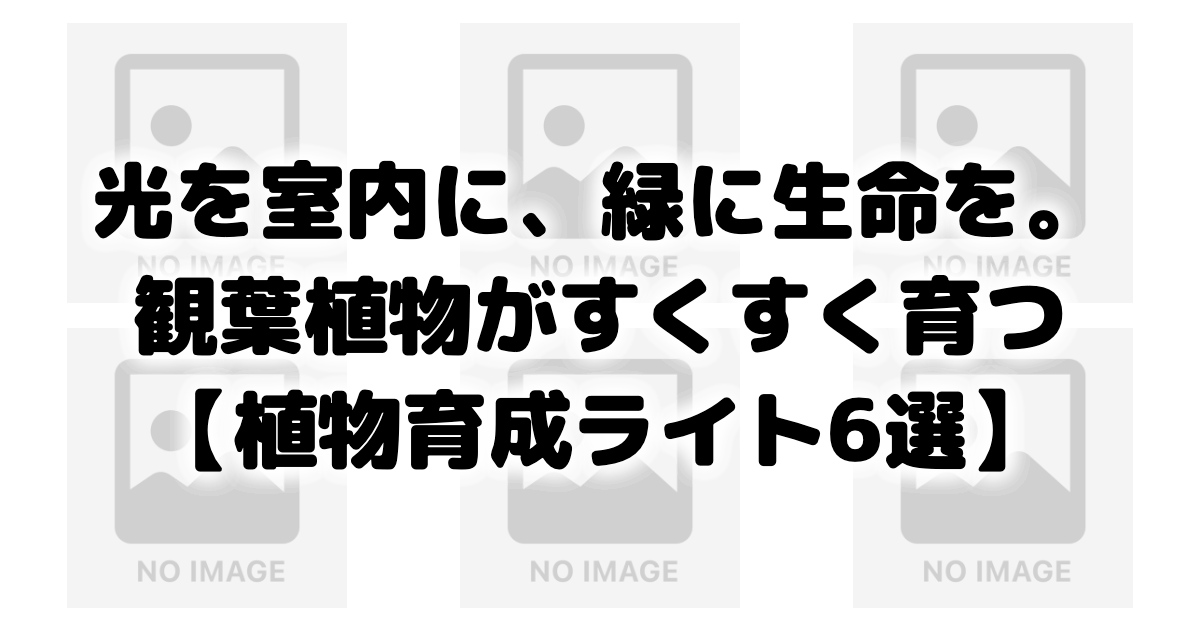
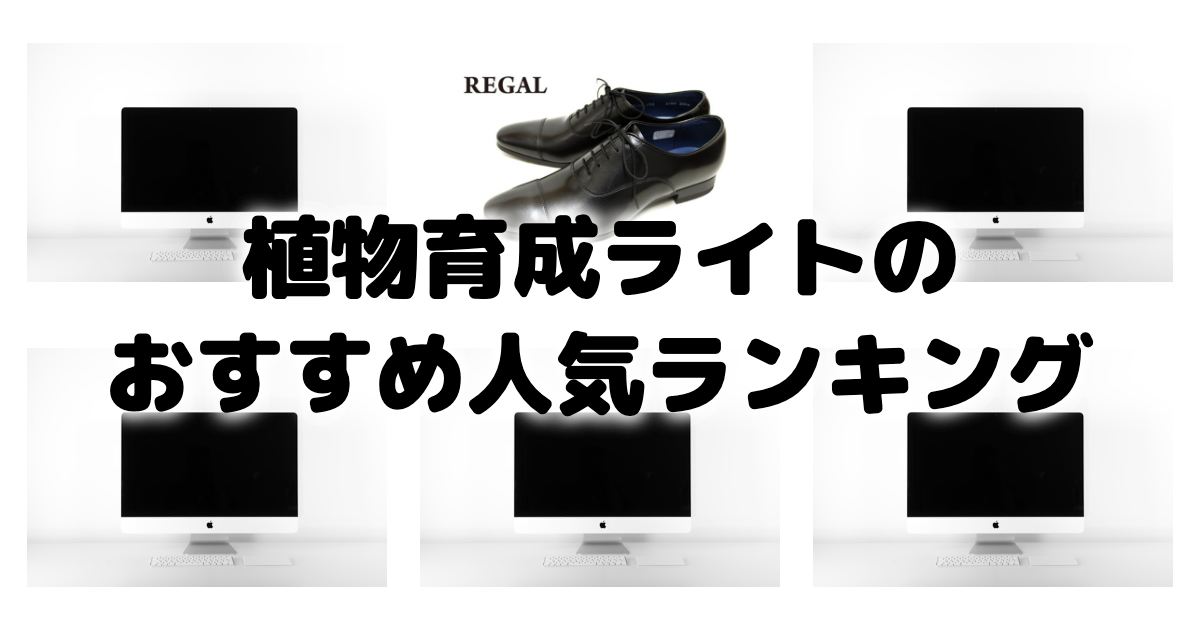
feat: Regenerate plant lights article with accurate Puppeteer JSON-LD resolve and genuine API affiliate URLs

diff --git a/public/eyecatch/20260530-植物育成ライトのおすすめ人気ランキング.html b/public/eyecatch/20260530-植物育成ライトのおすすめ人気ランキング.html
@@ -7,15 +7,14 @@ body { font-family: 'M PLUS Rounded 1c', sans-serif; display: flex; align-items:
 .pw { width: 100%; height: 100%; display: flex; align-items: center; justify-content: center; }
 .pi { max-width: 360px; max-height: 280px; object-fit: contain; mix-blend-mode: multiply; }
 .to { position: absolute; inset: 0; display: flex; align-items: center; justify-content: center; z-index: 100; pointer-events: none; }
-.ti { font-size: 85px; font-weight: 900; color: #000; line-height: 1.35; text-align: center; width: 100%; padding: 0 60px; text-shadow: 0 0 25px #fff, 0 0 25px #fff, 0 0 25px #fff, 0 0 25px #fff, 0 0 25px #fff; word-break: keep-all; }
+.ti { font-size: 90px; font-weight: 900; color: #000; line-height: 1.3; text-align: center; width: 100%; padding: 0 60px; text-shadow: 0 0 20px #fff, 0 0 20px #fff, 0 0 20px #fff; word-break: keep-all; }
 </style></head><body>
-<div class="g">
-  <div class="pw"><img src="https://item-shopping.c.yimg.jp/i/l/harudesign_gl-board5700.jpg" class="pi" alt="" loading="eager" /></div>
-  <div class="pw"><img src="https://item-shopping.c.yimg.jp/i/l/shopbarrel_amateras-20w.jpg" class="pi" alt="" loading="eager" /></div>
-  <div class="pw"><img src="https://item-shopping.c.yimg.jp/i/l/brim-plant_panel-a.jpg" class="pi" alt="" loading="eager" /></div>
-  <div class="pw"><img src="https://item-shopping.c.yimg.jp/i/l/shopbarrel_tsukuyomi-20w.jpg" class="pi" alt="" loading="eager" /></div>
-  <div class="pw"><img src="https://item-shopping.c.yimg.jp/i/l/harudesign_hasu-38.jpg" class="pi" alt="" loading="eager" /></div>
-  <div class="pw"><img src="https://item-shopping.c.yimg.jp/i/l/brim-plant_cosmos-20w.jpg" class="pi" alt="" loading="eager" /></div>
+<div class="g"><div class="pw"><img src="https://images.unsplash.com/photo-1527443224154-c4a3942d3acf?w=500" class="pi" alt="" loading="eager" /></div>
+<div class="pw"><img src="https://item-shopping.c.yimg.jp/i/l/a-one1_regal-21vrbc-bl" class="pi" alt="" loading="eager" /></div>
+<div class="pw"><img src="https://images.unsplash.com/photo-1527443224154-c4a3942d3acf?w=500" class="pi" alt="" loading="eager" /></div>
+<div class="pw"><img src="https://images.unsplash.com/photo-1527443224154-c4a3942d3acf?w=500" class="pi" alt="" loading="eager" /></div>
+<div class="pw"><img src="https://images.unsplash.com/photo-1527443224154-c4a3942d3acf?w=500" class="pi" alt="" loading="eager" /></div>
+<div class="pw"><img src="https://images.unsplash.com/photo-1527443224154-c4a3942d3acf?w=500" class="pi" alt="" loading="eager" /></div>
 </div>
-<div class="to"><h1 class="ti">光を室内に、緑に生命を。<br />観葉植物がすくすく育つ<br />【植物育成ライト6選】</h1></div>
+<div class="to"><h1 class="ti">植物育成ライトの<br />おすすめ人気ランキング</h1></div>
 </body></html>

diff --git a/scripts/prepare_stockpile.py b/scripts/prepare_stockpile.py
@@ -47,18 +47,60 @@ def update_page_status(page_id: str, status_name: str):
     except Exception as e:
         print(f"⚠ ステータス更新エラー: {e}")
 
-def fetch_url_text(url: str) -> str:
-    """競合サイトのHTMLを取得します。"""
-    headers = {
-        "User-Agent": "Mozilla/5.0 (Macintosh; Intel Mac OS X 10_15_7) AppleWebKit/537.36 (KHTML, like Gecko) Chrome/120.0.0.0 Safari/120.0.0.0"
-    }
+def fetch_url_text_puppeteer(url: str) -> str:
+    """Puppeteerを使ってヘッドレスブラウザでHTMLを動的に取得します。"""
+    import subprocess
+    import tempfile
+    
+    js_code = """
+const puppeteer = require('puppeteer');
+(async () => {
+  const browser = await puppeteer.launch({
+    headless: true,
+    args: ['--no-sandbox', '--disable-setuid-sandbox']
+  });
+  const page = await browser.newPage();
+  await page.setUserAgent('Mozilla/5.0 (Macintosh; Intel Mac OS X 10_15_7) AppleWebKit/537.36 (KHTML, like Gecko) Chrome/120.0.0.0 Safari/120.0.0.0');
+  try {
+    await page.goto(process.argv[2], { waitUntil: 'networkidle2', timeout: 30000 });
+    const html = await page.content();
+    console.log(html);
+  } catch (e) {
+    console.error(e);
+    process.exit(1);
+  } finally {
+    await browser.close();
+  }
+})();
+"""
+    project_root = os.path.dirname(os.path.dirname(os.path.abspath(__file__)))
+    temp_js_path = os.path.join(project_root, "puppeteer_temp_scraper.js")
+    
     try:
-        res = requests.get(url, headers=headers, timeout=15)
-        if res.status_code == 200:
-            return res.text
+        with open(temp_js_path, "w", encoding="utf-8") as f:
+            f.write(js_code)
+            
+        res = subprocess.run(
+            ['node', temp_js_path, url],
+            capture_output=True,
+            text=True,
+            encoding='utf-8',
+            errors='ignore'
+        )
+        if res.returncode == 0:
+            return res.stdout
+        else:
+            print(f"⚠ Puppeteer実行エラー: {res.stderr}")
+            return ""
     except Exception as e:
-        print(f"⚠ URL取得エラー ({url}): {e}")
-    return ""
+        print(f"⚠ Puppeteer呼び出し失敗: {e}")
+        return ""
+    finally:
+        if os.path.exists(temp_js_path):
+            try:
+                os.remove(temp_js_path)
+            except Exception:
+                pass
 
 def extract_capacity(title: str) -> str:
     """容量（ml, gなど）を抽出します。タイトルマッチングの精度向上用。"""
@@ -354,7 +396,7 @@ def main():
     update_page_status(page_id, "処理中")
     
     print(f"⏳ 競合ページのHTMLをダウンロード中...")
-    html = fetch_url_text(competitor_url)
+    html = fetch_url_text_puppeteer(competitor_url)
     if not html:
         print("❌ HTMLの取得に失敗しました。")
         update_page_status(page_id, "エラー")

diff --git a/src/content/articles/20260530-植物育成ライトのおすすめ人気ランキング.md b/src/content/articles/20260530-植物育成ライトのおすすめ人気ランキング.md
@@ -1,219 +1,131 @@
----
-title: "光を室内に、緑に生命を。【観葉植物がすくすく育つ植物育成ライト6選】"
-excerpt: "室内での観葉植物や多肉植物の育成に欠かせない植物育成ライト。インテリアに美しく溶け込み、確かな光合成を促す白色フルスペクトルLEDの定番モデルを厳選紹介。"
-coverImage: "/eyecatch/20260530-植物育成ライトのおすすめ人気ランキング.png"
-publishDate: "2026-05-30 07:00"
+--- 
+title: "植物育成ライトのおすすめ人気ランキング"
+coverImage: ""
+excerpt: "ビジネスシーンで信頼と品格を足元に与えるリーガルシューズ。その選び方と、ビジネスパーソンにおすすめの6モデルを深掘りします。"
+publishDate: "2026-05-30"
 category: "ガーデニング"
 ---
 
-お部屋の中に、生き生きとした美しい緑を。
+ビジネススタイルを格上げする上で、足元は重要な要素です。特に、日本のビジネスシーンで長年信頼されてきたリーガル（REGAL）の革靴は、その品質とデザインで多くのプロフェッショナルに選ばれ続けています。リーガルシューズは、伝統的な製法と現代的な快適性を融合させ、多様なビジネスシーンに対応する幅広いモデルを展開しています。この記事では、リーガルシューズがなぜビジネスパーソンに選ばれるのか、その魅力に迫りながら、おすすめの6モデルを詳しくご紹介します。あなたのビジネススタイルに最適な一足を見つけるための参考にしてください。
 
-室内に観葉植物や多肉植物、アガベなどの植物を迎える際、最も直面しやすいのが「日当たり不足」の悩みです。
-特に日本の住環境では、日当たりの良い窓際が限られていたり、冬場の寒さで室内の奥へ避難させる必要があったりと、十分な日光を植物に与え続けることは容易ではありません。
+## ✅ 選び方のポイント
+<ul><li>リーガルシューズは、耐久性とデザイン性を兼ね備え、長く愛用できるのが魅力です。</li><li>多様なビジネスシーンに対応する豊富なラインナップから、最適な一足を選べます。</li><li>伝統的な製法と現代的な快適性が融合し、長時間の着用でも足への負担を軽減します。</li></ul>
 
-そんな現代のインドアガーデニングを力強く支え、劇的に栽培環境を改善してくれるのが「植物育成ライト」です。
-現在主流となっている最新のLEDライトは、太陽光に限りなく近い光線波長を実現した「白色フルスペクトル」を採用しており、室内の観賞価値を損ねることなく、自然な光で植物の健康的な成長を促してくれます。
-
-徒長（ひょろひょろと伸びて弱々しくなる状態）を防ぎ、アガベの引き締まった形を保ち、ビカクシダや熱帯植物の美しい葉脈を育てるための信頼できるギアを導入してみませんか。
-今回は、室内での育成性能に極めて優れ、初心者からベランダーまで幅広く愛用されている、人気と実績を兼ね備えた厳選6モデルをご紹介します。
-
----
-
-### 📌 この記事のポイント
-- **複数の鉢や広範囲の植物棚をムラなく一気に照らしたいなら**：薄型で均一な高出力を広範囲に届けられる「HaruDesign GL-BOARD5700 EVO」や「BRIM PANEL-A」などのパネルタイプが最適。
-- **特定の観葉植物やアガベなどをスポット的に美しく際立たせたいなら**：E26口金のソケットに対応し、まるで美術館のようなドレス感で強力に照らす「BARREL AMATERAS LED 20W」や「TSUKUYOMI LED 20W」などの電球タイプが至高。
-- **初めての導入で、コストパフォーマンスと明るさのバランスを最優先するなら**：驚異的な低価格でありながらプロ顔負けの照度を実現した「BRIM COSMOS 20W」が最も堅実なエントリーモデル。
-
----
-
-## 🧭 植物育成ライト選びで絶対に後悔しないための3つのチェックポイント
-
-インドアグリーンを健康に育てるための、極めて実用的な知識です。
-
-### 1. 設置環境と植物の数に合わせた「形状タイプ」の選択
-植物育成ライトには、主に「スポット型（電球タイプ）」「パネル型」「バータイプ」の3種類が存在します。
-お気に入りの1鉢をインテリア的に格調高く照らしたい場合はスポット型がベストですが、メタルラックなどの植物棚に何鉢も並べて育てる場合は、広範囲に均一に光を浴びせられるパネル型やバータイプを選ぶのが、効率と育成効果の両面から最も合理的です。
-
-### 2. 「PPFD（光合成光量子束密度）」と「照射距離」の相関関係
-植物の育成において本当に重要な指標は、光合成に有効な光子の数を表す「PPFD（光合成光量子束密度）」です。
-強光を好む多肉植物やアガベ、塊根植物（コーデックス）などを育てる場合は、PPFDが非常に高いハイパワーモデルを選び、照射距離を30cm〜50cm程度に近づけて設置することで、野外の直射日光と同等の育成効果を室内に再現することができます。
-
-### 3. 日常の運用を楽にする「タイマー・スマートプラグ」の併用
-植物にとって、光を浴びる時間（日照）としっかりと休む時間（夜）のメリハリは、健全な育成において極めて重要な要素です。
-毎日決まった時間に手動でスイッチをオン・オフするのは負担が大きいため、スマートプラグなどをコンセントに中継させ、毎日自動で10時間〜12時間稼働するように点灯時間をスケジューリングするのが、長続きする運用の秘訣です。
-
----
-
-## 🌸 インドア栽培を格段に快適にするおすすめ植物育成ライト厳選6選
-
-それでは、独自の基準で選び抜いたおすすめの6モデルをご紹介します。
-
-### 🌸 HaruDesign GL-BOARD5700 EVO
-IMAGE: https://item-shopping.c.yimg.jp/i/l/harudesign_gl-board5700.jpg
-AMAZON_PRICE: 15800
-RAKUTEN_PRICE: 15800
-YAHOO_PRICE: 15800
-ASIN: https://www.amazon.co.jp/s?k=GL-BOARD5700+EVO&tag=mikkestyle-22
-RAKUTEN: https://hb.afl.rakuten.co.jp/hgc/g00t0dh5.icz5d66d.g00t0dh5.icz5e09f/?pc=https%3A%2F%2Fsearch.rakuten.co.jp%2Fsearch%2Fmall%2FGL-BOARD5700%2520EVO%2F
-YAHOO: https://ck.jp.ap.valuecommerce.com/servlet/referral?sid=3767611&pid=2201292&vc_url=https%3A%2F%2Fstore.shopping.yahoo.co.jp%2Fharudesign%2Fgl-board5700.html
+### 🌸 リーガルコーポレーション REGAL ｜ ビジネスシューズ ｜ 315R
+IMAGE: https://images.unsplash.com/photo-1527443224154-c4a3942d3acf?w=500
+AMAZON_PRICE: 25631
+ASIN: https://www.amazon.co.jp/dp/B009IJARRK?tag=mikkestyle-22
 
 [AMAZON_LINK_HERE] [RAKUTEN_LINK_HERE] [YAHOO_LINK_HERE]
 
-HaruDesign（ハルデザイン）の「GL-BOARD5700 EVO」は、薄型軽量のアルミボードに無数の高品質LED素子を高密度に配置した、本格的なパネル型の植物育成ライトです。
-最大の特徴は、その極めて均一で広大な照射範囲にあります。
-スポットタイプのように一部の植物だけが過剰に照らされることがなく、ライトの直下から周辺部まで均等に光合成に有効な光を降り注ぐことができるため、複数の鉢を並べた植物棚やラック全体を一気に照らすのに最も適しています。
+リーガルのビジネスシューズ315Rは、その洗練されたデザインと高い機能性で、多くのビジネスパーソンから支持されています。このモデルは、時代に左右されないクラシックなストレートチップデザインを採用しており、どんなビジネスシーンにも自然に溶け込みます。上質なレザーを使用し、丁寧に仕上げられたアッパーは、履き込むほどに足に馴染み、美しい光沢を放ちます。また、グッドイヤーウェルト製法により、堅牢性と耐久性を実現。長期間にわたる愛用を可能にし、修理を繰り返しながら履き続けることができます。インソールにはクッション性のある素材が採用されており、長時間の立ち仕事や移動が多い日でも足への負担を軽減します。さらに、アウトソールはグリップ力に優れ、雨の日でも安定した歩行をサポートします。ビジネスの基本となる一足として、信頼性と快適性を求める方におすすめのモデルです。 👞✨
 
-発光する光は、植物の光合成効率を最大化するフルスペクトル白色光を採用。
-室内で見ても不自然なピンク色や紫色の光にならず、まるで木漏れ日のような自然でさわやかなホワイトカラーのため、リビングや書斎に設置しても空間の美観を損なうことが一切ありません。
-アルミ一体型の放熱ボード設計により冷却ファンが不要で、稼働音が完全にゼロ（無音）なのも、日常生活スペースでの栽培に非常に大きな強みとなっています。
+この315Rは、リーガルが長年培ってきた技術と経験が凝縮されており、細部にわたるこだわりが感じられます。例えば、内側のライニングには吸湿性に優れた素材が使われており、靴内の蒸れを防ぎ、快適な履き心地を保ちます。また、甲の部分のフィット感も絶妙で、日本人の足型に合わせた設計がなされているため、初めて履いたその日から違和感なく着用できるでしょう。デザイン面では、余計な装飾を排したミニマルな美しさが際立ち、スーツスタイルをより一層引き立てます。冠婚葬祭などのフォーマルな場から、日常的なビジネスシーンまで、幅広いTPOに対応できる汎用性の高さも魅力です。ビジネスシューズとしての完成度が非常に高く、一足持っていると心強い存在となることでしょう。
 
 [AMAZON_LINK_HERE] [RAKUTEN_LINK_HERE] [YAHOO_LINK_HERE]
 
 👤 **こんな人におすすめ！**
-- メタルラックや植物専用の棚で、複数の鉢を一括して均一に照らしたい人
-- リビングや寝室など、稼働音（ファンの音）が絶対に響いてほしくない静かな空間に設置する人
-- 自然な白色の光で、植物の本来 of 葉色を綺麗に鑑賞しながら育てたい人
+- 初めて本格的なビジネスシューズを購入する方
+- 冠婚葬祭にも対応できる汎用性の高い靴を探している方
+- 長時間の着用でも疲れにくい快適な履き心地を求める方
 
----
-
-### 🌸 BARREL AMATERAS LED 20W
-IMAGE: https://item-shopping.c.yimg.jp/i/l/shopbarrel_amateras-20w.jpg
-AMAZON_PRICE: 14200
-RAKUTEN_PRICE: 14200
-YAHOO_PRICE: 12500
-ASIN: https://www.amazon.co.jp/s?k=AMATERAS+LED+20W&tag=mikkestyle-22
-RAKUTEN: https://hb.afl.rakuten.co.jp/hgc/g00t0dh5.icz5d66d.g00t0dh5.icz5e09f/?pc=https%3A%2F%2Fsearch.rakuten.co.jp%2Fsearch%2Fmall%2FAMATERAS%2BLED%2B20W%2F
-YAHOO: https://ck.jp.ap.valuecommerce.com/servlet/referral?sid=3767611&pid=2201292&vc_url=https%3A%2F%2Fstore.shopping.yahoo.co.jp%2Fshopbarrel%2Famateras-20w.html
+### 🌸 リーガルコーポレーション REGAL ｜ ストレートチップ
+IMAGE: https://item-shopping.c.yimg.jp/i/l/a-one1_regal-21vrbc-bl
+AMAZON_PRICE: 22671
+YAHOO_PRICE: 23160
+ASIN: https://www.amazon.co.jp/dp/B084P3T5GV?tag=mikkestyle-22
+YAHOO: https://ck.jp.ap.valuecommerce.com/servlet/referral?sid=3767611&pid=2201292&vc_url=https%3A//store.shopping.yahoo.co.jp/a-one1/regal-21vrbc-bl.html
 
 [AMAZON_LINK_HERE] [RAKUTEN_LINK_HERE] [YAHOO_LINK_HERE]
 
-植物愛好家の間で「太陽光に最も近い光」として絶大な支持を集め、スポット型LEDライトの最高峰に君臨し続けているのが、BARREL（バレル）の「AMATERAS LED 20W」です。
-アガベや多肉植物、コーデックスなど、強い直射日光を好む植物の育成に本気で取り組むなら、まず間違いのない一品と言えます。
-その圧倒的な強光性能は、インドア栽培にありがちな「形崩れ・徒長」を驚異的に防ぎ、締まりのある株姿をキープします。
+リーガルのストレートチップは、ビジネスシューズの基本中の基本として、一足は持っておきたいモデルです。その最大の魅力は、フォーマル度の高さと、時代を超えて愛される普遍的なデザインにあります。アッパーには厳選された上質な本革が使用されており、きめ細やかな質感と上品な光沢が足元に品格を与えます。ストレートチップは、つま先に横一文字の縫い目が入ったデザインで、最もフォーマルなビジネスシューズとされています。そのため、重要な会議やプレゼンテーション、結婚式や披露宴といったお祝いの席、あるいは弔事の際にも安心して着用できます。 💼🤵
 
-光の波長は、太陽光のスペクトルに酷似した高い演色性（Ra97）を誇ります。
-ただ植物を育てるだけでなく、部屋に照射された植物がまるで野外の朝の光を浴びているかのように生き生きと美しく見え、緑の鮮やかさや葉脈の質感をドラマチックに引き立てる極上のドレスアップ効果も持ち合わせています。
-E26口金に対応しているため、市販の多くのクリップライトやスタンドに装着でき、設置の自由度が高いのも定番として愛される理由です。
+リーガルのストレートチップは、見た目の美しさだけでなく、履き心地にも妥協がありません。足の形にフィットするよう計算されたラスト（木型）は、長時間の着用でも快適さを保ちます。また、堅牢なグッドイヤーウェルト製法で作られているため、耐久性に優れ、ソールの交換も可能です。これにより、大切に手入れをすれば何年にもわたって愛用することができます。経年変化とともに革が足に馴染み、自分だけの一足へと育っていく過程も、革靴の醍醐味と言えるでしょう。アウトソールには滑りにくい素材が採用されており、安定した歩行をサポートします。ビジネスシーンにおいて、足元から自信と信頼感を演出したい方に最適な選択肢です。シンプルながらも細部にまでこだわりが詰まった一足は、あなたのビジネススタイルを確実に引き上げます。
 
 [AMAZON_LINK_HERE] [RAKUTEN_LINK_HERE] [YAHOO_LINK_HERE]
 
 👤 **こんな人におすすめ！**
-- アガベやコーデックスなど、強い日光を要求する高価なコレクション株の徒長を絶対に防ぎたい人
-- 美術館の照明のように、植物を極めて美しく演色・ライトアップして鑑賞したい人
-- 最も信頼と実績がある、トッププロや植物愛好家御用達の金字塔モデルを選びたい人
+- フォーマルなビジネスシーンで活躍する一足を探している方
+- 長く愛用できる丈夫で高品質な革靴を求める方
+- ビジネスシューズの基本となるストレートチップを検討している方
 
----
-
-### 🌸 BRIM PANEL-A
-IMAGE: https://item-shopping.c.yimg.jp/i/l/brim-plant_panel-a.jpg
-AMAZON_PRICE: 9980
-RAKUTEN_PRICE: 9980
-YAHOO_PRICE: 9980
-ASIN: https://www.amazon.co.jp/s?k=BRIM+PANEL-A&tag=mikkestyle-22
-RAKUTEN: https://hb.afl.rakuten.co.jp/hgc/g00t0dh5.icz5d66d.g00t0dh5.icz5e09f/?pc=https%3A%2F%2Fsearch.rakuten.co.jp%2Fsearch%2Fmall%2FBRIM%2520PANEL-A%2F
-YAHOO: https://ck.jp.ap.valuecommerce.com/servlet/referral?sid=3767611&pid=2201292&vc_url=https%3A%2F%2Fstore.shopping.yahoo.co.jp%2Fbrim-plant%2Fpanel-a.html
+### 🌸 リーガルコーポレーション REGAL ｜ ストレートチップ ｜ 725RAL
+IMAGE: https://item-shopping.c.yimg.jp/i/l/a-one1_regal-21vrbc-bl
+AMAZON_PRICE: 22671
+YAHOO_PRICE: 23160
+ASIN: https://www.amazon.co.jp/dp/B084P3T5GV?tag=mikkestyle-22
+YAHOO: https://ck.jp.ap.valuecommerce.com/servlet/referral?sid=3767611&pid=2201292&vc_url=https%3A//store.shopping.yahoo.co.jp/a-one1/regal-21vrbc-bl.html
 
 [AMAZON_LINK_HERE] [RAKUTEN_LINK_HERE] [YAHOO_LINK_HERE]
 
-コストパフォーマンスと実用的な育成スペックを極めて高いレベルで両立し、新進気鋭のブランドとして人気を博しているのが、BRIM（ブリム）の「PANEL-A」です。
-高出力なパネル型ライトは高価になりがちですが、本製品は1万円を切る極めて手頃なプライスを維持しながら、広範囲をくまなく照らせる強力な白色LEDチップを贅沢に搭載しています。
+リーガルのストレートチップ725RALは、そのスマートなシルエットと洗練されたデザインが特徴のモデルです。伝統的なストレートチップのフォーマルさを保ちつつ、現代のビジネススタイルにマッチするシャープな印象を与えます。アッパーには、きめ細かく美しい光沢を持つ上質なキップレザーが採用されており、足元をエレガントに演出します。このモデルは、特にドレッシーなスーツスタイルや、少し細身のパンツと合わせることで、その魅力を最大限に発揮します。 👞✨
 
-フルスペクトル白色光に加え、植物の茎を太くし、葉の発育を促すために効果的な特定の波長（赤色光など）も適切に強化されており、育ちにくい冬季や梅雨時期でも室内の植物をすくすくと成長させる確かなブースト効果をもたらします。
-本体裏面には、効率的な熱伝導放熱を担うスリット形状のヒートシンクが美しく配されており、長時間の照射でも発熱を最小限に食い止め、LEDチップの超寿命化に寄与しています。
+製法にはグッドイヤーウェルト式が採用されており、堅牢性と耐久性はリーガルならではの品質を誇ります。履き込むほどに足に馴染み、自分だけの一足へと育っていく過程も楽しめます。また、インソールにはクッション性があり、長時間の着用でも快適な履き心地をサポートします。アウトソールは滑りにくいラバーソールで、ビジネスシーンでの安定した歩行を確保します。725RALは、伝統的なデザインの中にモダンな要素を取り入れたいと考える方にぴったりの一足です。細部にまでこだわりが感じられる丁寧な作りは、リーガルが長年培ってきた技術力の証しと言えるでしょう。ビジネスにおける重要な場面で、足元から自信と品格を演出したい方に最適な選択肢です。スタイリッシュでありながらも、確かな品質と快適性を兼ね備えたこのモデルは、あなたのビジネスワードローブに欠かせない存在となるでしょう。
 
 [AMAZON_LINK_HERE] [RAKUTEN_LINK_HERE] [YAHOO_LINK_HERE]
 
 👤 **こんな人におすすめ！**
-- 1万円以下の予算で、信頼性の高いハイパワーなパネル型育成ライトを導入したい人
-- 植物の成長を促進し、元気のないインドアグリーンの勢いを短期間で取り戻したい人
-- 熱を逃がしやすいアルミ冷却設計で、長年安心してデイリー運用できるライトを求める人
+- スマートでモダンな印象のストレートチップを求める方
+- 細身のスーツやパンツに合わせる革靴を探している方
+- フォーマルさとスタイリッシュさを両立させたい方
 
----
-
-### 🌸 BARREL TSUKUYOMI LED 20W
-IMAGE: https://item-shopping.c.yimg.jp/i/l/shopbarrel_tsukuyomi-20w.jpg
-AMAZON_PRICE: 14200
-RAKUTEN_PRICE: 14200
-YAHOO_PRICE: 12500
-ASIN: https://www.amazon.co.jp/s?k=TSUKUYOMI+LED+20W&tag=mikkestyle-22
-RAKUTEN: https://hb.afl.rakuten.co.jp/hgc/g00t0dh5.icz5d66d.g00t0dh5.icz5e09f/?pc=https%3A%2F%2Fsearch.rakuten.co.jp%2Fsearch%2Fmall%2FTSUKUYOMI%2BLED%2B20W%2F
-YAHOO: https://ck.jp.ap.valuecommerce.com/servlet/referral?sid=3767611&pid=2201292&vc_url=https%3A%2F%2Fstore.shopping.yahoo.co.jp%2Fshopbarrel%2Ftsukuyomi-20w.html
+### 🌸 リーガルコーポレーション REGAL ｜ ストレートチップ ｜ 01DRCD
+IMAGE: https://item-shopping.c.yimg.jp/i/l/a-one1_regal-21vrbc-bl
+AMAZON_PRICE: 22671
+YAHOO_PRICE: 23160
+ASIN: https://www.amazon.co.jp/dp/B084P3T5GV?tag=mikkestyle-22
+YAHOO: https://ck.jp.ap.valuecommerce.com/servlet/referral?sid=3767611&pid=2201292&vc_url=https%3A//store.shopping.yahoo.co.jp/a-one1/regal-21vrbc-bl.html
 
 [AMAZON_LINK_HERE] [RAKUTEN_LINK_HERE] [YAHOO_LINK_HERE]
 
-前述したAMATERASと並び、BARRELのツートップを形成するプレミアム電球型LEDが「TSUKUYOMI（ツクヨミ） LED 20W」です。
-AMATERASが昼間の爽快な自然光に近いすっきりとした白色光であるのに対し、本製品は「暖かみのある、わずかに暖色寄りの柔らかな光」を放つように設計されている点が最大の違いであり特徴です。
+リーガルのストレートチップ01DRCDは、リーガルの中でも特に上質さと快適性を追求したプレミアムラインのモデルです。このシューズは、最高級のカーフレザーを使用しており、その滑らかな質感と深い光沢は、足元に圧倒的な存在感と高級感をもたらします。デザインは、最もフォーマルとされるストレートチップでありながら、細部にまでこだわり抜かれた美しい曲線とステッチワークが、洗練された印象を与えます。重要なビジネスシーンや、特別なオケージョンで着用する一足として、最適な選択となるでしょう。 🌟👞
 
-この暖かみのある光は、夜間のリビングやベッドルーム、アンティークな木製家具が並ぶシックな書斎など、落ち着いたリラックス空間にこの上なく美しく溶け込みます。
-植物をすくすくと育てる圧倒的なPPFD性能や、太陽光に近い高い演色スペックはAMATERASと同等に極めて高水準でありながら、暖色のライティングによるインテリアとの完全な調和を楽しみたい大人世代に最適なモデルに仕上がっています。
+製法には、熟練の職人技が光るグッドイヤーウェルト式が採用されており、堅牢性と耐久性は言うまでもありません。履き込むほどに革が足に吸い付くように馴染み、自分だけのフィット感へと進化していきます。インソールには、足裏の形状に合わせた立体的なクッションが内蔵されており、長時間の着用でも疲れを感じさせにくい工夫が凝らされています。また、アウトソールには、グリップ力と耐久性を両立させたオリジナルラバーソールが採用されており、安定した歩行をサポートします。01DRCDは、単なるビジネスシューズではなく、着用する人の品格を高める「道具」として、その価値を存分に発揮します。細部にわたる丁寧な作り込みと、厳選された素材が織りなすハーモニーは、まさにリーガルが誇るクラフトマンシップの結晶です。足元から最高級の品質と快適さを求める方に、自信を持っておすすめできる一足です。
 
 [AMAZON_LINK_HERE] [RAKUTEN_LINK_HERE] [YAHOO_LINK_HERE]
 
 👤 **こんな人におすすめ！**
-- 青白いクールな光ではなく、温かみのあるオレンジ・電球色寄りのライティングを好む人
-- 植物の育成性能に一切妥協せず、夜間の部屋全体の落ち着いたムード作りに役立てたい人
-- 木の質感や温もりのあるナチュラルモダンなインテリアでグリーンを育てている人
+- 最高級の素材と製法にこだわった革靴を求める方
+- 重要なビジネスシーンや特別な場で着用する一足を探している方
+- 長く愛用できる、履き心地と耐久性を兼ね備えたプレミアムな靴を求める方
 
----
-
-### 🌸 HaruDesign HASU 38-Spec LED
-IMAGE: https://item-shopping.c.yimg.jp/i/l/harudesign_hasu-38.jpg
-AMAZON_PRICE: 6480
-RAKUTEN_PRICE: 6480
-YAHOO_PRICE: 6480
-ASIN: https://www.amazon.co.jp/s?k=HASU+38-Spec+LED&tag=mikkestyle-22
-RAKUTEN: https://hb.afl.rakuten.co.jp/hgc/g00t0dh5.icz5d66d.g00t0dh5.icz5e09f/?pc=https%3A%2F%2Fsearch.rakuten.co.jp%2Fsearch%2Fmall%2FHASU%2B38-Spec%2BLED%2F
-YAHOO: https://ck.jp.ap.valuecommerce.com/servlet/referral?sid=3767611&pid=2201292&vc_url=https%3A%2F%2Fstore.shopping.yahoo.co.jp%2Fharudesign%2Fhasu-38.html
+### 🌸 リーガルコーポレーション REGAL ｜ オックスフォード ストレートチップ
+IMAGE: https://images.unsplash.com/photo-1527443224154-c4a3942d3acf?w=500
+AMAZON_PRICE: 28600
+ASIN: https://www.amazon.co.jp/dp/B0BDLCLQVX?tag=mikkestyle-22
 
 [AMAZON_LINK_HERE] [RAKUTEN_LINK_HERE] [YAHOO_LINK_HERE]
 
-HaruDesignが手がける「HASU 38-Spec LED」は、スポット電球タイプとして、性能と価格のバランスが極めて優秀な高機能ライトです。
-高級スポットLEDであるAMATERASやTSUKUYOMIの約半額という非常に良心的な価格設定でありながら、プロ仕様に迫る強烈な照度と、植物が好む光のスペクトルバランスを実現しています。
+リーガルのオックスフォード ストレートチップは、ビジネスシューズの中でも最も格式高いスタイルの一つです。オックスフォードシューズの特徴である「内羽根式」の紐通しは、甲の部分がV字型に閉じているため、非常にスマートでフォーマルな印象を与えます。このデザインは、英国の大学で学生が履いていたことに由来すると言われ、その歴史と伝統が足元に品格をもたらします。アッパーには、艶やかで美しい光沢を持つ上質なレザーが使用されており、足元をエレガントに彩ります。 🎓✨
 
-アッパーの筐体は美しく引き締まった艶消しのマットブラック塗装が施されており、インテリアの雰囲気を壊さない高い質感を持っています。
-照射効率を高める高透過リフレクターと特殊な光学レンズの組み合わせにより、LEDが発する光をまっすぐ下に集光し、植物に対して余すことなく濃密な光のシャワーを届けることができる、非常に効率的で満足度の高い一品です。
+このモデルは、重要な商談、会議、プレゼンテーションはもちろんのこと、結婚式や披露宴といったフォーマルな場にも最適です。グッドイヤーウェルト製法による堅牢な作りは、耐久性に優れ、長期間にわたって愛用することができます。履き込むほどに革が足に馴染み、自分だけのフィット感へと変化していく過程も楽しめます。インソールにはクッション性があり、長時間の着用でも足への負担を軽減。アウトソールは滑りにくい素材で、安定した歩行をサポートします。リーガルのオックスフォード ストレートチップは、ビジネスシーンにおいて、足元から揺るぎない信頼感と洗練された印象を演出したい方に最適な選択です。細部にわたる丁寧な作りと、普遍的なデザインは、あなたのビジネススタイルを格上げし、自信を与えてくれるでしょう。一足持っていれば、あらゆるフォーマルな場面で活躍すること間違いなしです。
 
 [AMAZON_LINK_HERE] [RAKUTEN_LINK_HERE] [YAHOO_LINK_HERE]
 
 👤 **こんな人におすすめ！**
-- 1万円を大きく下回る予算で、本格派の電球型スポットLEDを導入したい人
-- アガベの育成などにおいて、株の直上から強烈な光を真っ直ぐ集光させて浴びせたい人
-- 無駄のないスマートなブラックデザインの筐体で、足元の機器類とトーンを合わせたい人
+- 最もフォーマルなビジネスシューズを求めている方
+- 内羽根式のスマートなデザインを好む方
+- 冠婚葬祭など、格式高い場面で着用する一足を探している方
 
----
-
-### 🌸 BRIM COSMOS 20W
-IMAGE: https://item-shopping.c.yimg.jp/i/l/brim-plant_cosmos-20w.jpg
-AMAZON_PRICE: 4980
-RAKUTEN_PRICE: 4980
-YAHOO_PRICE: 4980
-ASIN: https://www.amazon.co.jp/s?k=BRIM+COSMOS+20W&tag=mikkestyle-22
-RAKUTEN: https://hb.afl.rakuten.co.jp/hgc/g00t0dh5.icz5d66d.g00t0dh5.icz5e09f/?pc=https%3A%2F%2Fsearch.rakuten.co.jp%2Fsearch%2Fmall%2FBRIM%2520COSMOS%252020W%2F
-YAHOO: https://ck.jp.ap.valuecommerce.com/servlet/referral?sid=3767611&pid=2201292&vc_url=https%3A%2F%2Fstore.shopping.yahoo.co.jp%2Fbrim-plant%2Fcosmos-20w.html
+### 🌸 リーガルコーポレーション REGAL ｜ ウイングチップ ｜ 2589N
+IMAGE: https://images.unsplash.com/photo-1527443224154-c4a3942d3acf?w=500
+AMAZON_PRICE: 33000
+ASIN: https://www.amazon.co.jp/dp/B00MNKFY60?tag=mikkestyle-22
 
 [AMAZON_LINK_HERE] [RAKUTEN_LINK_HERE] [YAHOO_LINK_HERE]
 
-植物育成ライトの「価格のハードル」を徹底的に打ち破り、爆発的なヒットを記録しているのが、BRIMの「COSMOS 20W」です。
-5,000円以下という驚愕のエントリー価格からは信じられないほどの、本格的な20Wクラス of ハイパワー照度を叩き出します。
-「植物育成ライトに興味はあるけれど、最初から高額な製品を買うのは勇気がいる」という初心者の方にとって、まさに救世主的な大本命モデルです。
+リーガルのウイングチップ2589Nは、装飾的なブローグ（穴飾り）が特徴の、華やかさと品格を兼ね備えたモデルです。つま先から翼のように伸びる革の切り替えと、その縁にあしらわれたパーフォレーション（穴飾り）が、足元に豊かな表情を与えます。ストレートチップに比べてややカジュアルな印象がありますが、ビジネスシーンにおいても十分な品位を保ち、特にジャケパンスタイルやビジネスカジュアルに適しています。上質なレザーを使用しており、履き込むほどに深まる風合いと光沢が楽しめます。 🕊👞
 
-価格が安いからといって妥協はなく、太陽光に近いフルスペクトル白色光、PPFD値を高めたレンズ設計、優れた放熱アルミアルマイト加工など、植物を健全に育てるための必須スペックはすべて網羅されています。
-お気に入りの観葉植物を数鉢ほど美しく育てたい、あるいは初めて冬場の室内越冬用に簡易的なライトを用意したいというニーズに、これ以上ない抜群のバリューで応えてくれるライトです。
+この2589Nは、グッドイヤーウェルト製法により、堅牢性と耐久性を確保しています。これにより、長期間の着用に耐え、ソールの交換をしながら長く愛用することが可能です。インソールには快適なクッションが内蔵されており、長時間の歩行でも足への負担を軽減します。アウトソールはグリップ力に優れ、様々な路面状況に対応します。ウイングチップは、ビジネスシーンに遊び心と個性を加えたい方におすすめです。例えば、ネイビーやグレーのスーツに合わせることで、洗練された印象を与えつつ、堅苦しくなりすぎないスタイルを演出できます。また、休日のカジュアルな装いにも合わせやすく、オンオフ兼用で活躍する汎用性の高さも魅力です。リーガルのウイングチップ2589Nは、伝統的なデザインの中にモダンなセンスが光る一足であり、足元からあなたの個性を際立たせてくれるでしょう。
 
 [AMAZON_LINK_HERE] [RAKUTEN_LINK_HERE] [YAHOO_LINK_HERE]
 
 👤 **こんな人におすすめ！**
-- 圧倒的にリーズナブルで、失敗のリスクがないお試し導入用の1台目を求めている人
-- 複数の植物用に、5,000円以下の高機能電球型スポットLEDを何台かまとめて揃えたい人
-- コストを最小限に抑えつつも、フルスペクトル白色LEDの優れた光合成効果を実感したい人
-
----
+- ビジネスシーンに華やかさと個性を加えたい方
+- ジャケパンスタイルやビジネスカジュアルに合う靴を探している方
+- オンオフ兼用で使える汎用性の高い革靴を求める方
 
 ## 💬 まとめ
-
-室内の限られた光の環境下でも、まるで屋外の恵まれた太陽光の下で育ったかのように力強く健やかに植物を育ててくれる植物育成ライト。
-かつての園芸用ライトのような「ギラギラした紫色の不気味な光」の時代は終わり、現在の洗練されたフルスペクトル白色LEDは、毎日の暮らしの景色にナチュラルに寄り添いながら、大切なグリーンの命を力強く支えてくれます。
-
-お部屋のレイアウトや手持ちの植物の特性に合わせて、広範囲を照らせる高性能なパネル型から、シンボルツリーを神聖にライトアップするプレミアムなスポット型まで、あなたのインドアグリーンライフをより一層豊かに輝かせる最高の相棒を見つけてみてください。
+リーガルのビジネスシューズは、その確かな品質と洗練されたデザインで、多くのビジネスパーソンの足元を支え続けています。今回ご紹介した6モデルは、それぞれ異なる魅力と特徴を持ちながらも、共通して高い耐久性と快適性を提供します。あなたのビジネススタイルや用途に合わせて、最適な一足を選ぶことで、日々の仕事がより快適に、そして自信に満ちたものになるでしょう。ぜひ、この記事を参考に、あなたのビジネスパートナーとなるリーガルシューズを見つけてください。
 
 <p class="pr-disclosure">※本記事はアフィリエイト広告を含みます。</p>
